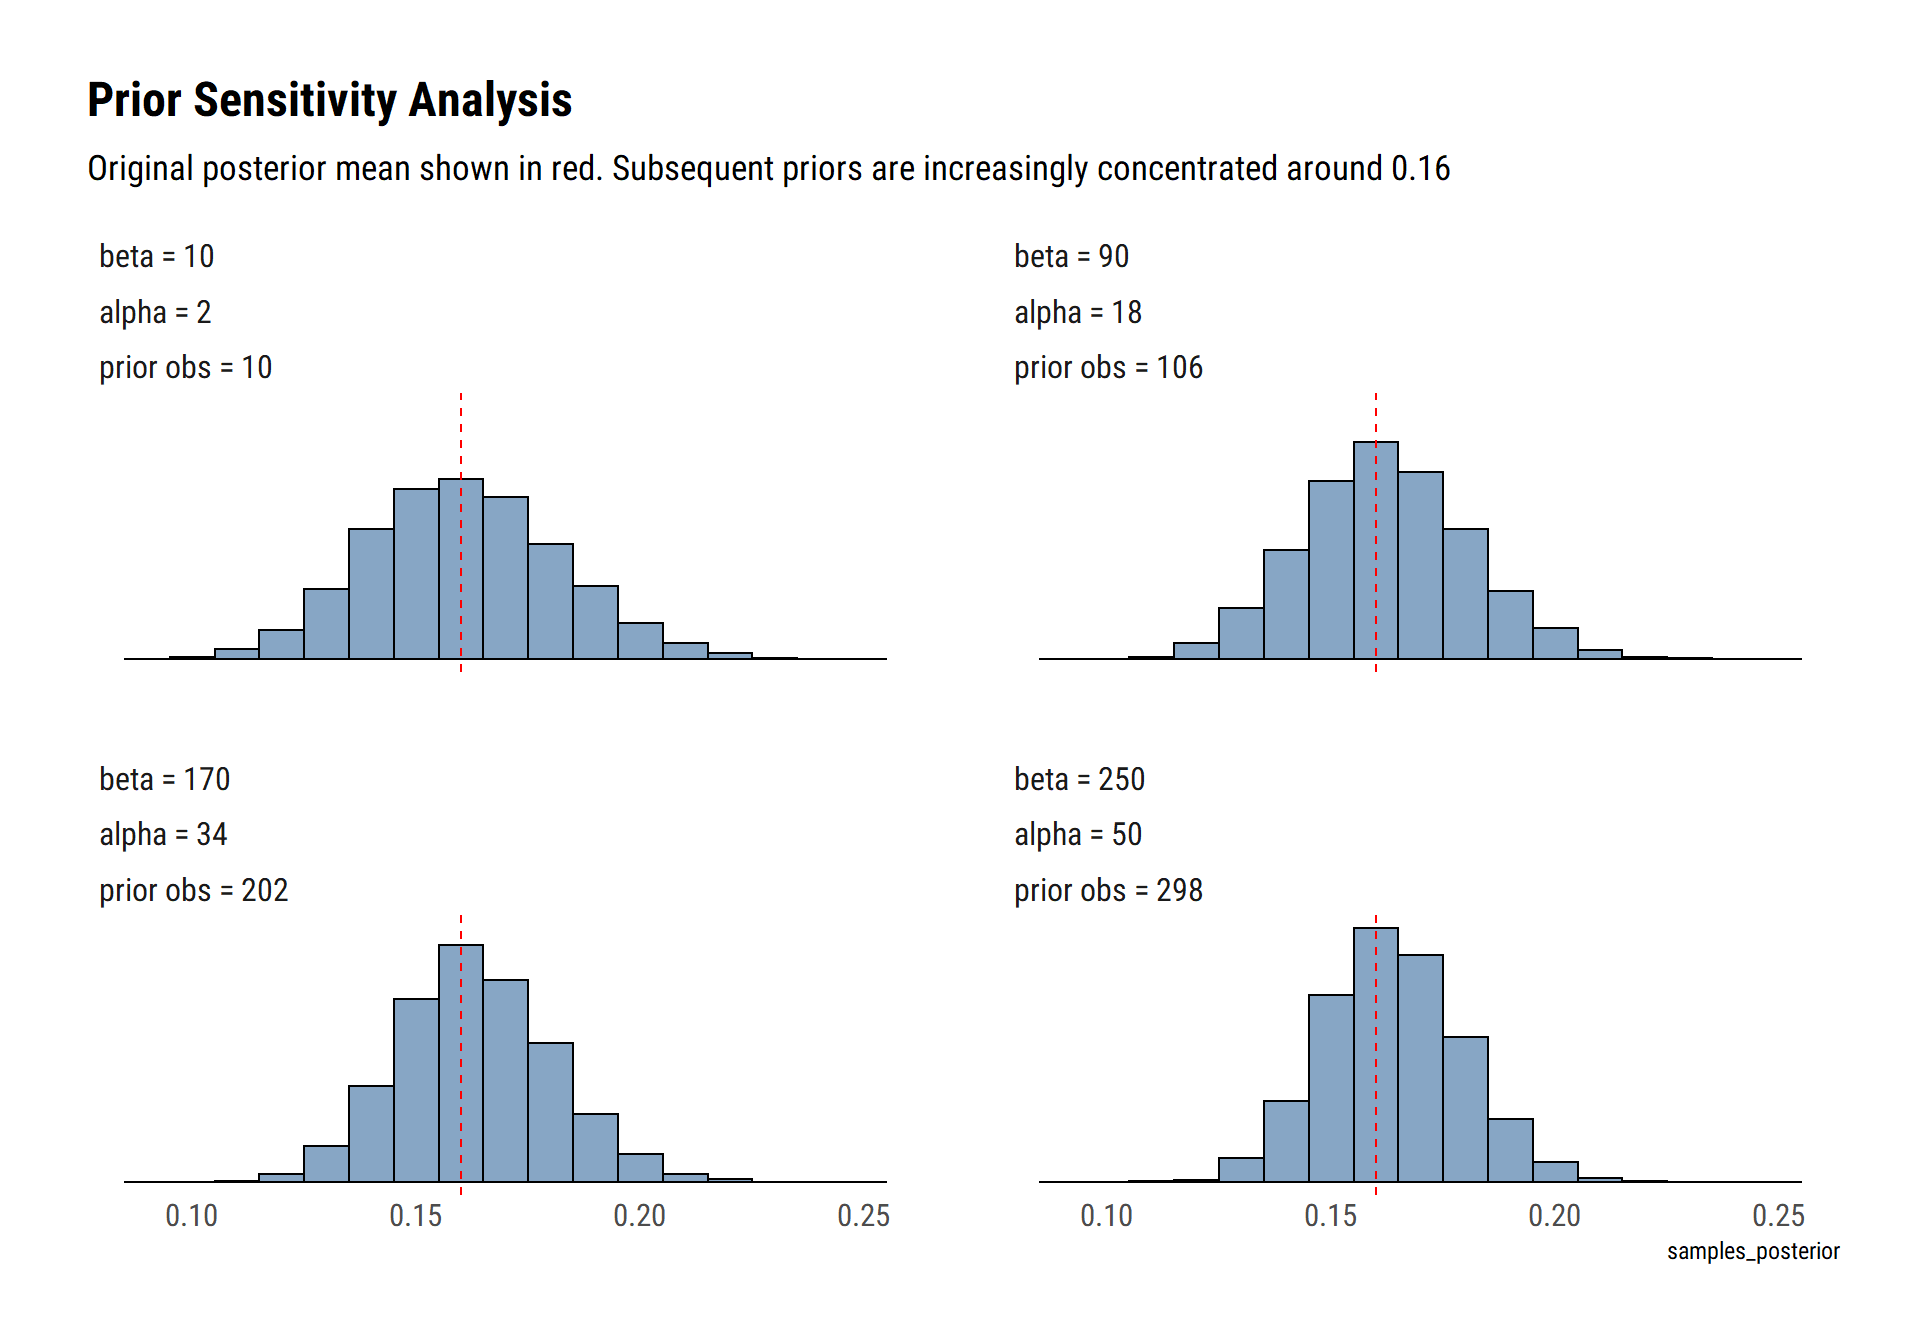
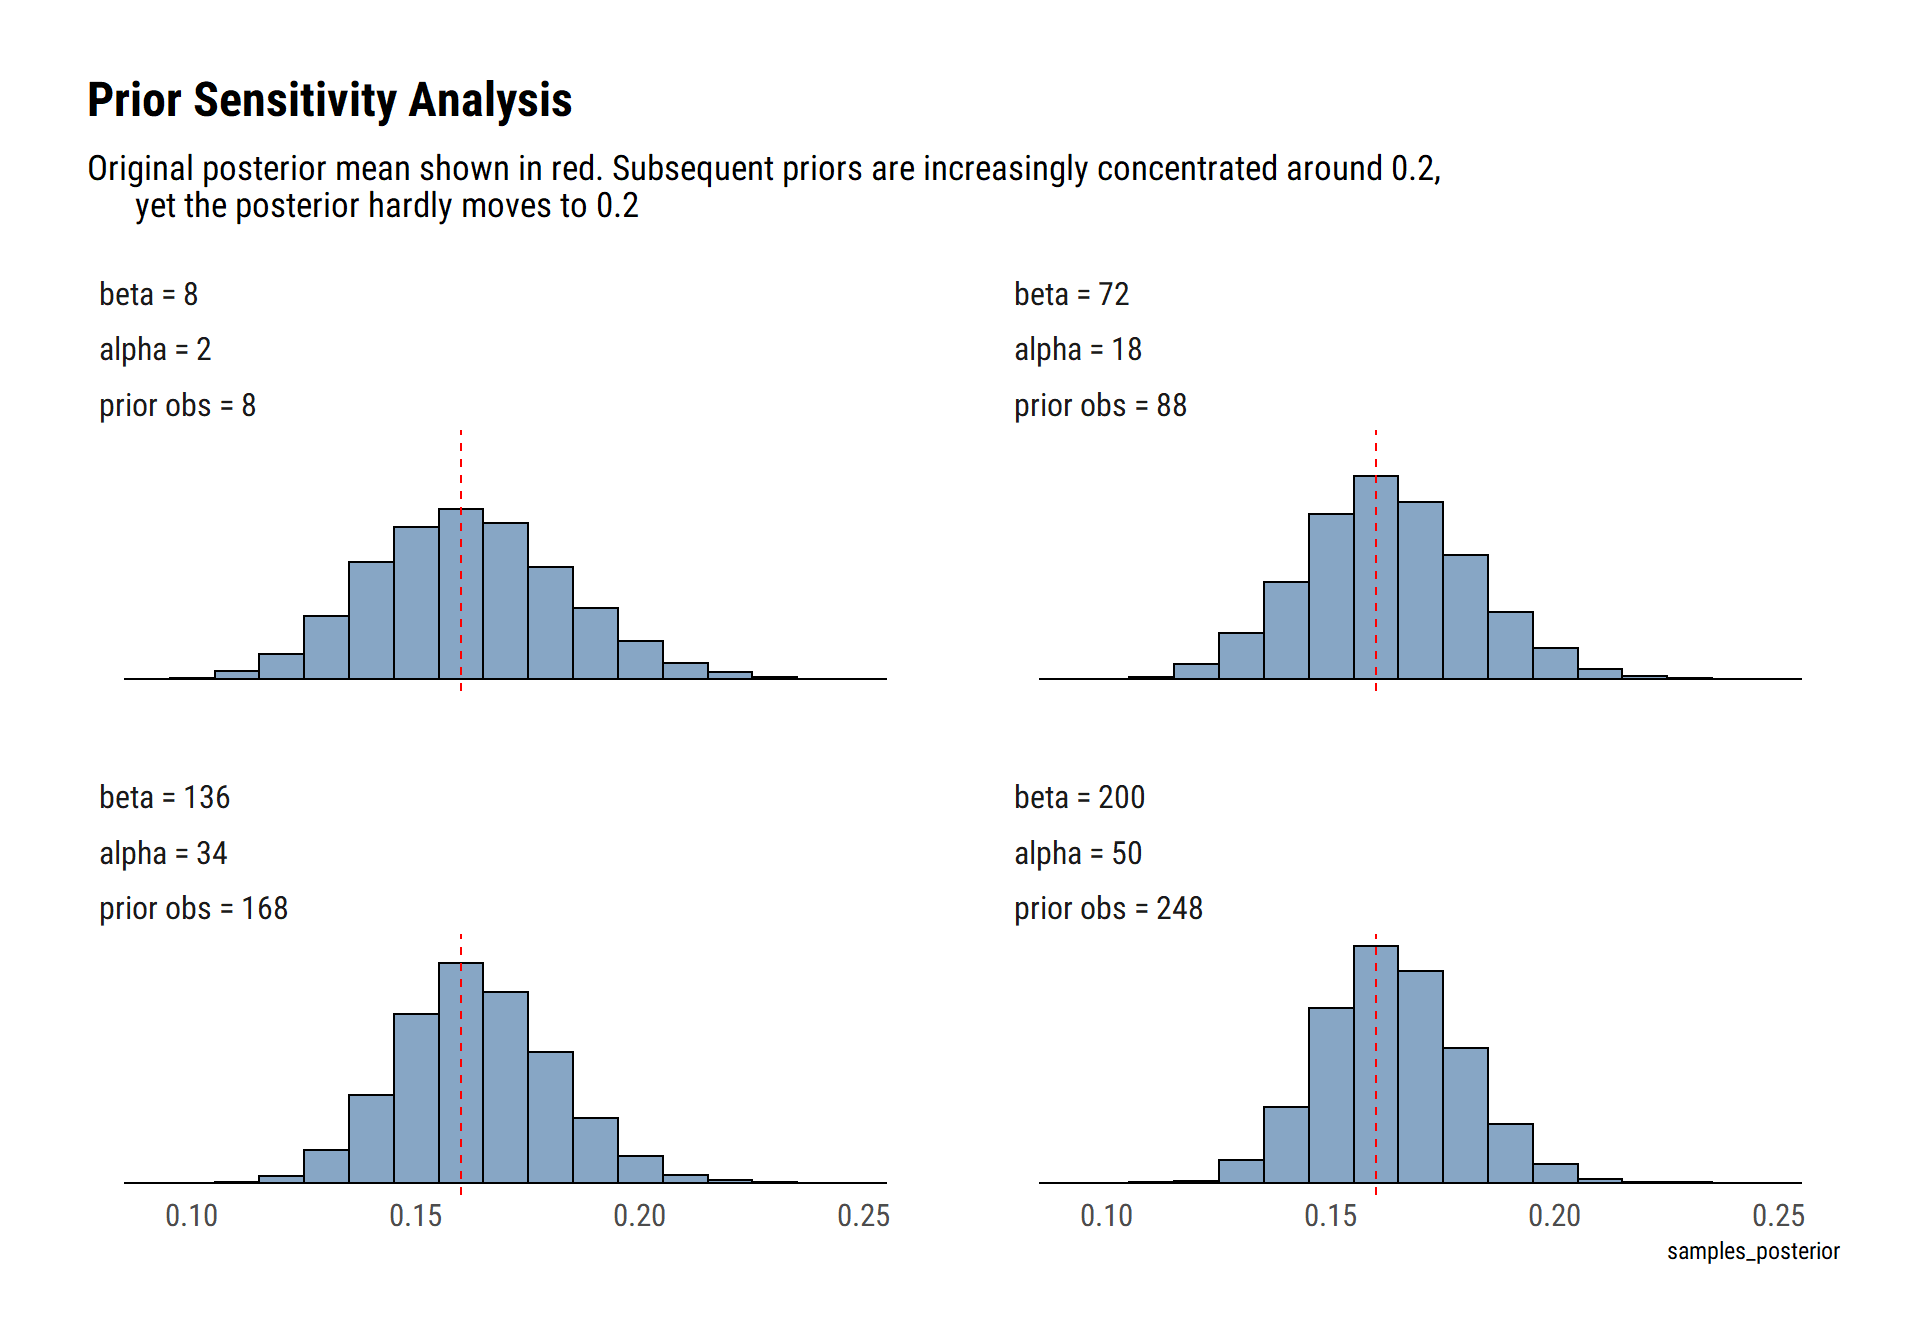
change prior concentration bda week 2

diff --git a/blog_data/content/post/2020-06-22-bayesian-data-analysis-week-2.html b/blog_data/content/post/2020-06-22-bayesian-data-analysis-week-2.html
@@ -9,21 +9,6 @@ tags: []
 
 
 
-<pre class="r"><code>knitr::opts_chunk$set(warning = FALSE, message = FALSE)
-library(aaltobda)
-library(tidyverse)</code></pre>
-<pre><code>## -- Attaching packages -------------------------------------------------------------------------------------- tidyverse 1.3.0 --</code></pre>
-<pre><code>## v ggplot2 3.3.0     v purrr   0.3.4
-## v tibble  3.0.1     v dplyr   1.0.0
-## v tidyr   1.0.2     v stringr 1.4.0
-## v readr   1.3.1     v forcats 0.5.0</code></pre>
-<pre><code>## -- Conflicts ----------------------------------------------------------------------------------------- tidyverse_conflicts() --
-## x dplyr::filter() masks stats::filter()
-## x dplyr::lag()    masks stats::lag()</code></pre>
-<pre class="r"><code># Roboto-Condensed
-extrafont::loadfonts(device=&quot;win&quot;)</code></pre>
-<pre><code>## Registering font with R using windowsFonts(): Roboto Condensed</code></pre>
-<pre class="r"><code>theme_set(hrbrthemes::theme_ipsum_rc(grid = &quot;&quot;))</code></pre>
 <p>Bayesian Data Analysis (Gelman, Vehtari et. alter) is equals part a great introduction and THE reference for advanced Bayesian Statistics. Luckily, it’s <a href="http://www.stat.columbia.edu/~gelman/book/">freely available online</a>. To make things even better for the online learner, Aki Vehtari (one of the authors) has a set of online lectures and homeworks that go through the basics of Bayesian Data Analysis.</p>
 <p>In this series of blogposts, I’ll go over the homeworks that Aki has kindly made available online. Hopefully, I’ll go over the whole book and learn a thing or two. If you are interested in also learning bayesian statistics, I wholeheartedly recommend <a href="https://xcelab.net/rm/statistical-rethinking/">Statistical Rethinking</a> first: the best and most interesting statistics course ever created.</p>
 <div id="week-2" class="section level2">
@@ -104,12 +89,12 @@ get_posterior &lt;- function(prior_alpha, prior_beta) {
 }
 set.seed(25)
 labels_alpha &lt;- unlist(map(seq(2, 50, length.out = 4), ~ glue::glue(&quot;alpha = {.}&quot;)))
-labels_beta &lt;- unlist(map(seq(10, 250, length.out = 4), ~ glue::glue(&quot;beta = {.}&quot;)))
-labels_prior_observations &lt;- unlist(map(seq(2, 50, length.out = 4) + seq(10, 250, length.out = 4) - 2,
+labels_beta &lt;- unlist(map(seq(8, 200, length.out = 4), ~ glue::glue(&quot;beta = {.}&quot;)))
+labels_prior_observations &lt;- unlist(map(seq(2, 50, length.out = 4) + seq(8, 200, length.out = 4) - 2,
                                     ~ glue::glue(&quot;prior obs = {.}&quot;)))
 
 tibble(alpha = seq(2, 50, length.out = 4),
-         beta = seq(10, 250, length.out = 4)) %&gt;% 
+         beta = seq(8, 250, length.out = 4)) %&gt;% 
   mutate(samples_posterior = map2(alpha, beta, ~ get_posterior(.x, .y))) %&gt;% 
   unnest(samples_posterior) %&gt;% 
   mutate(prior_observations = alpha + beta - 2,
@@ -124,8 +109,9 @@ tibble(alpha = seq(2, 50, length.out = 4),
         axis.text.y=element_blank(),
         axis.ticks.y=element_blank()) +
   labs(title = &quot;Prior Sensitivity Analysis&quot;,
-       subtitle = &quot;Original posterior mean shown in red. Subsequent priors are increasingly concentrated around 0.16&quot;)</code></pre>
+       subtitle = &quot;Original posterior mean shown in red. Subsequent priors are increasingly concentrated around 0.2,
+      yet the posterior hardly moves to 0.2&quot;)</code></pre>
 <p><img src="/post/2020-06-22-bayesian-data-analysis-week-2_files/figure-html/figure-1.png" width="960" /></p>
-<p>The posterior is very robust. Even after drastically increasing the number of prior observations, the posterior distribution hardly changes.</p>
+<p>The posterior is very robust. Even after drastically increasing the number of prior observations, the prior’s mean (0.2) is still a very unlikely event in the eyes of the posterior.</p>
 </div>
 </div>
